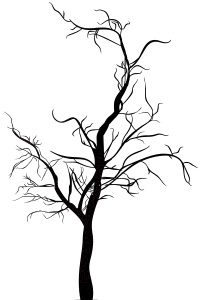
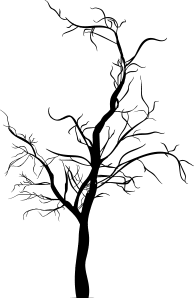
améliorations graphiques majeures et globales

Changed region(s): [[0.0, 0.0, 0.866, 1.0], [0.7732, 0.4832, 1.0, 0.6342], [0.3711, 0.8758, 0.4021, 0.9664]]

diff --git a/public/js/game.js b/public/js/game.js
@@ -55,16 +55,19 @@ function preload() {
   //this.load.json('jsonData', 'assets/data/map.json');
   this.load.spritesheet('character', 'assets/player.png', { frameWidth: 90, frameHeight: 100 });
   this.load.spritesheet('zombie01', 'assets/Z.png', { frameWidth: 90, frameHeight: 100 });
-  this.load.image('ground01', 'assets/ground01.png');
   this.load.image('ground300', 'assets/ground300.png');
-  this.load.image('underground01', 'assets/underground01.png');
   this.load.image('platform01', 'assets/platform01.png');
-  this.load.image('platform02', 'assets/platform02.png');
   this.load.image('tree01', 'assets/tree01.png');
+  this.load.image('tree02', 'assets/tree02.png');
+  this.load.image('tree03', 'assets/tree03.png');
+  this.load.image('tree04', 'assets/tree04.png');
+  this.load.image('tree05', 'assets/tree05.png');
+  this.load.image('tree06', 'assets/tree06.png');
+  this.load.image('bush01', 'assets/bush01.png');
   this.load.image('bullet', 'assets/bullet.png');
   this.load.image('rain', 'assets/rain.png');
   this.load.image('fog', 'assets/fog.png');
-  this.load.image('bg01', 'assets/bg01.jpg');
+  this.load.image('bg01', 'assets/bg01.png');
 
 
   this.load.audio('pistolshot', [
@@ -105,6 +108,7 @@ function create() {
     speedY: { min: 500, max: 900 },
     scale: { start: 0.5, end: 0.1 },
     quantity: 10,
+    //collideBottom: true,
     blendMode: 'ADD'
   });
 
@@ -161,14 +165,37 @@ function create() {
 
   // GENERATION
   // ARBRE GENERATION
-  var treeNumbers = randomNumber(10, 20);
+  var treeNumbers = randomNumber(2, 5);
   for (var i = 0; i < treeNumbers; i++){
-    var treePositionX = randomNumber(0, 5000);
-    //trees.create(treePositionX, 580, 'tree01');
-    var tree = this.matter.add.image(treePositionX, 530, 'tree01', null, { isStatic: true });
-    //tree.setScale(1,1);
+    var treePositionX = randomNumber(0, worldLength);
+    var tree = this.matter.add.image(0, 0, 'tree04', null, { isStatic: true });
+    tree.setPosition(treePositionX,520);
     tree.setCollisionCategory(catGround);
   }
+  for (var i = 0; i < treeNumbers; i++){
+    var treePositionX = randomNumber(0, worldLength);
+    var tree = this.matter.add.image(0, 0, 'tree02', null, { isStatic: true });
+    tree.setPosition(treePositionX,480);
+    tree.setCollisionCategory(catGround);
+  }
+  for (var i = 0; i < treeNumbers; i++){
+    var treePositionX = randomNumber(0, worldLength);
+    var tree = this.matter.add.image(0, 0, 'tree03', null, { isStatic: true });
+    tree.setPosition(treePositionX,580);
+    tree.setCollisionCategory(catGround);
+  }
+  for (var i = 0; i < treeNumbers; i++){
+    var treePositionX = randomNumber(0, worldLength);
+    var tree = this.matter.add.image(0, 0, 'tree06', null, { isStatic: true });
+    tree.setPosition(treePositionX,450);
+    tree.setCollisionCategory(catGround);
+  }
+
+
+
+
+
+
   var catZ = this.matter.world.nextCategory();
   var catGround = this.matter.world.nextCategory();
   var catBullet = this.matter.world.nextCategory();
@@ -196,14 +223,14 @@ function create() {
   //PLATFORM GENERATION
   for (var i = 20; i < 30; i++){
     //platforms.create(i * blocWidth, 300, 'ground01');
-    var platform = this.matter.add.image(i * blocWidth, 300, 'platform02', null, { isStatic: true });
+    var platform = this.matter.add.image(i * blocWidth, 300, 'platform01', null, { isStatic: true });
     platform.setFriction(0);
     platform.setOrigin(0.5, 0.75);
     platform.setCollisionCategory(catGround);
   }
   for (var i = 10; i < 20; i++){
     //platforms.create(i * blocWidth, 500, 'ground01');
-    var platform = this.matter.add.image(i * blocWidth, 500, 'platform02', null, { isStatic: true });
+    var platform = this.matter.add.image(i * blocWidth, 500, 'platform01', null, { isStatic: true });
     platform.setFriction(0);
     platform.setOrigin(0.5, 0.75);
     platform.setCollisionCategory(catGround);
@@ -324,7 +351,7 @@ function create() {
         clientPlayerName = players[id].playerName;
         self.character = self.matter.add.sprite(players[id].x, players[id].y, 'character');
         self.character.setExistingBody(compoundBodyPlayer);
-        self.character.setPosition(600, 200);
+        self.character.setPosition(400, 200);
         self.cameras.main.startFollow(self.character, true, 0.05, 0.05, 0, 20);
 
       } else {
@@ -544,8 +571,16 @@ function update(time, delta) {
         //console.log(zArray[z].data.values.speed);
         // Si ils sont au même étage
         if (zArray[z].data.values.isAlive == true) {
-          if (Math.abs(verticalRange < 80)) {
+          if (verticalRange > 80) {
 
+            if (horizontalRange > 45 || verticalRange < 80) {
+              zArray[z].setVelocityX( - zArray[z].data.values.speed * speed);
+              zArray[z].flipX = true;
+            } else if (horizontalRange < -45){
+              zArray[z].setVelocityX( zArray[z].data.values.speed * speed);
+              zArray[z].flipX = false;
+            }
+          } else if (verticalRange < 80){
             if (horizontalRange > 45) {
               zArray[z].setVelocityX( - zArray[z].data.values.speed * speed);
               zArray[z].flipX = true;
